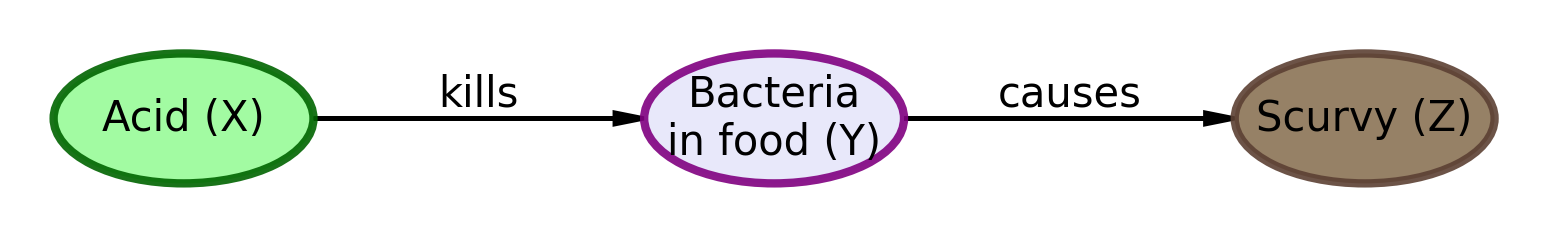
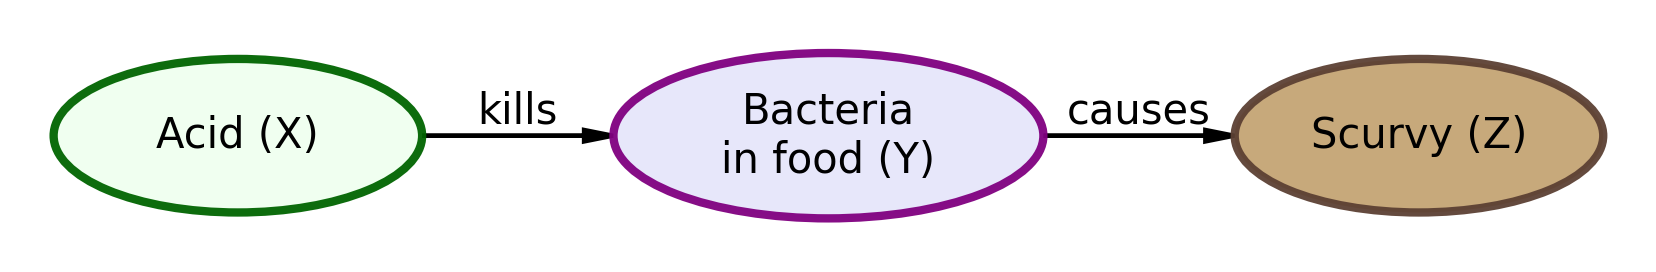
cleaned up all DAGS

Changed region(s): [[0.031, 0.1772, 0.9922, 0.827]]

diff --git a/index.html b/index.html
@@ -209,21 +209,21 @@ Ready to create beautiful DAGs!</code></pre>
 <span id="cb3-2"><a href="#cb3-2" aria-hidden="true" tabindex="-1"></a></span>
 <span id="cb3-3"><a href="#cb3-3" aria-hidden="true" tabindex="-1"></a>pgm <span class="op">=</span> daft.PGM(dpi<span class="op">=</span><span class="dv">150</span>, alternate_style<span class="op">=</span><span class="st">"outer"</span>)</span>
 <span id="cb3-4"><a href="#cb3-4" aria-hidden="true" tabindex="-1"></a></span>
-<span id="cb3-5"><a href="#cb3-5" aria-hidden="true" tabindex="-1"></a><span class="co"># Lemons node (yellow)</span></span>
-<span id="cb3-6"><a href="#cb3-6" aria-hidden="true" tabindex="-1"></a>pgm.add_node(<span class="st">"lemons"</span>, <span class="st">"Lemons (X)"</span>, <span class="dv">1</span>, <span class="dv">1</span>, aspect<span class="op">=</span><span class="dv">2</span>, scale<span class="op">=</span><span class="fl">1.1</span>,</span>
+<span id="cb3-5"><a href="#cb3-5" aria-hidden="true" tabindex="-1"></a><span class="co"># Lemons node (yellow - light fill for black text contrast)</span></span>
+<span id="cb3-6"><a href="#cb3-6" aria-hidden="true" tabindex="-1"></a>pgm.add_node(<span class="st">"lemons"</span>, <span class="st">"Lemons (X)"</span>, <span class="fl">0.5</span>, <span class="dv">1</span>, aspect<span class="op">=</span><span class="fl">2.4</span>, scale<span class="op">=</span><span class="fl">1.3</span>,</span>
 <span id="cb3-7"><a href="#cb3-7" aria-hidden="true" tabindex="-1"></a>             plot_params<span class="op">=</span>{</span>
-<span id="cb3-8"><a href="#cb3-8" aria-hidden="true" tabindex="-1"></a>                 <span class="st">'facecolor'</span>: <span class="st">'gold'</span>,</span>
+<span id="cb3-8"><a href="#cb3-8" aria-hidden="true" tabindex="-1"></a>                 <span class="st">'facecolor'</span>: <span class="st">'lemonchiffon'</span>,</span>
 <span id="cb3-9"><a href="#cb3-9" aria-hidden="true" tabindex="-1"></a>                 <span class="st">'edgecolor'</span>: <span class="st">'darkgoldenrod'</span>,</span>
 <span id="cb3-10"><a href="#cb3-10" aria-hidden="true" tabindex="-1"></a>                 <span class="st">'linewidth'</span>: <span class="dv">2</span>,</span>
-<span id="cb3-11"><a href="#cb3-11" aria-hidden="true" tabindex="-1"></a>                 <span class="st">'alpha'</span>: <span class="fl">0.9</span>,</span>
+<span id="cb3-11"><a href="#cb3-11" aria-hidden="true" tabindex="-1"></a>                 <span class="st">'alpha'</span>: <span class="fl">0.95</span>,</span>
 <span id="cb3-12"><a href="#cb3-12" aria-hidden="true" tabindex="-1"></a>             })</span>
-<span id="cb3-13"><a href="#cb3-13" aria-hidden="true" tabindex="-1"></a><span class="co"># Scurvy node (sickly/unpleasant color)</span></span>
-<span id="cb3-14"><a href="#cb3-14" aria-hidden="true" tabindex="-1"></a>pgm.add_node(<span class="st">"scurvy"</span>, <span class="st">"Scurvy (Y)"</span>, <span class="dv">3</span>, <span class="dv">1</span>, aspect<span class="op">=</span><span class="dv">2</span>, scale<span class="op">=</span><span class="fl">1.1</span>,</span>
+<span id="cb3-13"><a href="#cb3-13" aria-hidden="true" tabindex="-1"></a><span class="co"># Scurvy node (lightened tan so black text is readable)</span></span>
+<span id="cb3-14"><a href="#cb3-14" aria-hidden="true" tabindex="-1"></a>pgm.add_node(<span class="st">"scurvy"</span>, <span class="st">"Scurvy (Y)"</span>, <span class="fl">3.5</span>, <span class="dv">1</span>, aspect<span class="op">=</span><span class="fl">2.4</span>, scale<span class="op">=</span><span class="fl">1.3</span>,</span>
 <span id="cb3-15"><a href="#cb3-15" aria-hidden="true" tabindex="-1"></a>             plot_params<span class="op">=</span>{</span>
-<span id="cb3-16"><a href="#cb3-16" aria-hidden="true" tabindex="-1"></a>                 <span class="st">'facecolor'</span>: <span class="st">'#8B7355'</span>,</span>
+<span id="cb3-16"><a href="#cb3-16" aria-hidden="true" tabindex="-1"></a>                 <span class="st">'facecolor'</span>: <span class="st">'#C4A574'</span>,</span>
 <span id="cb3-17"><a href="#cb3-17" aria-hidden="true" tabindex="-1"></a>                 <span class="st">'edgecolor'</span>: <span class="st">'#5C4033'</span>,</span>
 <span id="cb3-18"><a href="#cb3-18" aria-hidden="true" tabindex="-1"></a>                 <span class="st">'linewidth'</span>: <span class="dv">2</span>,</span>
-<span id="cb3-19"><a href="#cb3-19" aria-hidden="true" tabindex="-1"></a>                 <span class="st">'alpha'</span>: <span class="fl">0.9</span>,</span>
+<span id="cb3-19"><a href="#cb3-19" aria-hidden="true" tabindex="-1"></a>                 <span class="st">'alpha'</span>: <span class="fl">0.95</span>,</span>
 <span id="cb3-20"><a href="#cb3-20" aria-hidden="true" tabindex="-1"></a>             })</span>
 <span id="cb3-21"><a href="#cb3-21" aria-hidden="true" tabindex="-1"></a>pgm.add_edge(<span class="st">"lemons"</span>, <span class="st">"scurvy"</span>, label<span class="op">=</span><span class="st">"prevents"</span>)</span>
 <span id="cb3-22"><a href="#cb3-22" aria-hidden="true" tabindex="-1"></a></span>
@@ -231,7 +231,7 @@ Ready to create beautiful DAGs!</code></pre>
 <div class="cell-output cell-output-display">
 <div>
 <figure class="figure">
-<p><img src="index_files/figure-html/dag-1-1747-output-1.png" id="dag-1-1747" width="419" height="118" class="figure-img"></p>
+<p><img src="index_files/figure-html/dag-1-1747-output-1.png" id="dag-1-1747" width="592" height="130" class="figure-img"></p>
 </figure>
 </div>
 </div>
@@ -247,29 +247,29 @@ Ready to create beautiful DAGs!</code></pre>
 <span id="cb4-2"><a href="#cb4-2" aria-hidden="true" tabindex="-1"></a></span>
 <span id="cb4-3"><a href="#cb4-3" aria-hidden="true" tabindex="-1"></a>pgm <span class="op">=</span> daft.PGM(dpi<span class="op">=</span><span class="dv">150</span>, alternate_style<span class="op">=</span><span class="st">"outer"</span>)</span>
 <span id="cb4-4"><a href="#cb4-4" aria-hidden="true" tabindex="-1"></a></span>
-<span id="cb4-5"><a href="#cb4-5" aria-hidden="true" tabindex="-1"></a><span class="co"># Acid node (green) - spaced left</span></span>
-<span id="cb4-6"><a href="#cb4-6" aria-hidden="true" tabindex="-1"></a>pgm.add_node(<span class="st">"acid"</span>, <span class="st">"Acid (X)"</span>, <span class="dv">0</span>, <span class="dv">1</span>, aspect<span class="op">=</span><span class="dv">2</span>, scale<span class="op">=</span><span class="fl">1.1</span>,</span>
+<span id="cb4-5"><a href="#cb4-5" aria-hidden="true" tabindex="-1"></a><span class="co"># Acid node (green - light fill for readability)</span></span>
+<span id="cb4-6"><a href="#cb4-6" aria-hidden="true" tabindex="-1"></a>pgm.add_node(<span class="st">"acid"</span>, <span class="st">"Acid (X)"</span>, <span class="dv">0</span>, <span class="dv">1</span>, aspect<span class="op">=</span><span class="fl">2.4</span>, scale<span class="op">=</span><span class="fl">1.3</span>,</span>
 <span id="cb4-7"><a href="#cb4-7" aria-hidden="true" tabindex="-1"></a>             plot_params<span class="op">=</span>{</span>
-<span id="cb4-8"><a href="#cb4-8" aria-hidden="true" tabindex="-1"></a>                 <span class="st">'facecolor'</span>: <span class="st">'palegreen'</span>,</span>
+<span id="cb4-8"><a href="#cb4-8" aria-hidden="true" tabindex="-1"></a>                 <span class="st">'facecolor'</span>: <span class="st">'honeydew'</span>,</span>
 <span id="cb4-9"><a href="#cb4-9" aria-hidden="true" tabindex="-1"></a>                 <span class="st">'edgecolor'</span>: <span class="st">'darkgreen'</span>,</span>
 <span id="cb4-10"><a href="#cb4-10" aria-hidden="true" tabindex="-1"></a>                 <span class="st">'linewidth'</span>: <span class="dv">2</span>,</span>
-<span id="cb4-11"><a href="#cb4-11" aria-hidden="true" tabindex="-1"></a>                 <span class="st">'alpha'</span>: <span class="fl">0.9</span>,</span>
+<span id="cb4-11"><a href="#cb4-11" aria-hidden="true" tabindex="-1"></a>                 <span class="st">'alpha'</span>: <span class="fl">0.95</span>,</span>
 <span id="cb4-12"><a href="#cb4-12" aria-hidden="true" tabindex="-1"></a>             })</span>
-<span id="cb4-13"><a href="#cb4-13" aria-hidden="true" tabindex="-1"></a><span class="co"># Bacteria in food node - center</span></span>
-<span id="cb4-14"><a href="#cb4-14" aria-hidden="true" tabindex="-1"></a>pgm.add_node(<span class="st">"bacteria"</span>, <span class="st">"Bacteria</span><span class="ch">\n</span><span class="st">in food (Y)"</span>, <span class="fl">2.5</span>, <span class="dv">1</span>, aspect<span class="op">=</span><span class="dv">2</span>, scale<span class="op">=</span><span class="fl">1.1</span>,</span>
+<span id="cb4-13"><a href="#cb4-13" aria-hidden="true" tabindex="-1"></a><span class="co"># Bacteria in food node (larger so two-line label fits)</span></span>
+<span id="cb4-14"><a href="#cb4-14" aria-hidden="true" tabindex="-1"></a>pgm.add_node(<span class="st">"bacteria"</span>, <span class="st">"Bacteria</span><span class="ch">\n</span><span class="st">in food (Y)"</span>, <span class="fl">2.5</span>, <span class="dv">1</span>, aspect<span class="op">=</span><span class="fl">2.6</span>, scale<span class="op">=</span><span class="fl">1.4</span>,</span>
 <span id="cb4-15"><a href="#cb4-15" aria-hidden="true" tabindex="-1"></a>             plot_params<span class="op">=</span>{</span>
 <span id="cb4-16"><a href="#cb4-16" aria-hidden="true" tabindex="-1"></a>                 <span class="st">'facecolor'</span>: <span class="st">'lavender'</span>,</span>
 <span id="cb4-17"><a href="#cb4-17" aria-hidden="true" tabindex="-1"></a>                 <span class="st">'edgecolor'</span>: <span class="st">'purple'</span>,</span>
 <span id="cb4-18"><a href="#cb4-18" aria-hidden="true" tabindex="-1"></a>                 <span class="st">'linewidth'</span>: <span class="dv">2</span>,</span>
-<span id="cb4-19"><a href="#cb4-19" aria-hidden="true" tabindex="-1"></a>                 <span class="st">'alpha'</span>: <span class="fl">0.9</span>,</span>
+<span id="cb4-19"><a href="#cb4-19" aria-hidden="true" tabindex="-1"></a>                 <span class="st">'alpha'</span>: <span class="fl">0.95</span>,</span>
 <span id="cb4-20"><a href="#cb4-20" aria-hidden="true" tabindex="-1"></a>             })</span>
-<span id="cb4-21"><a href="#cb4-21" aria-hidden="true" tabindex="-1"></a><span class="co"># Scurvy node (same as DAG 1) - spaced right</span></span>
-<span id="cb4-22"><a href="#cb4-22" aria-hidden="true" tabindex="-1"></a>pgm.add_node(<span class="st">"scurvy"</span>, <span class="st">"Scurvy (Z)"</span>, <span class="dv">5</span>, <span class="dv">1</span>, aspect<span class="op">=</span><span class="dv">2</span>, scale<span class="op">=</span><span class="fl">1.1</span>,</span>
+<span id="cb4-21"><a href="#cb4-21" aria-hidden="true" tabindex="-1"></a><span class="co"># Scurvy node (lightened tan for text contrast)</span></span>
+<span id="cb4-22"><a href="#cb4-22" aria-hidden="true" tabindex="-1"></a>pgm.add_node(<span class="st">"scurvy"</span>, <span class="st">"Scurvy (Z)"</span>, <span class="dv">5</span>, <span class="dv">1</span>, aspect<span class="op">=</span><span class="fl">2.4</span>, scale<span class="op">=</span><span class="fl">1.3</span>,</span>
 <span id="cb4-23"><a href="#cb4-23" aria-hidden="true" tabindex="-1"></a>             plot_params<span class="op">=</span>{</span>
-<span id="cb4-24"><a href="#cb4-24" aria-hidden="true" tabindex="-1"></a>                 <span class="st">'facecolor'</span>: <span class="st">'#8B7355'</span>,</span>
+<span id="cb4-24"><a href="#cb4-24" aria-hidden="true" tabindex="-1"></a>                 <span class="st">'facecolor'</span>: <span class="st">'#C4A574'</span>,</span>
 <span id="cb4-25"><a href="#cb4-25" aria-hidden="true" tabindex="-1"></a>                 <span class="st">'edgecolor'</span>: <span class="st">'#5C4033'</span>,</span>
 <span id="cb4-26"><a href="#cb4-26" aria-hidden="true" tabindex="-1"></a>                 <span class="st">'linewidth'</span>: <span class="dv">2</span>,</span>
-<span id="cb4-27"><a href="#cb4-27" aria-hidden="true" tabindex="-1"></a>                 <span class="st">'alpha'</span>: <span class="fl">0.9</span>,</span>
+<span id="cb4-27"><a href="#cb4-27" aria-hidden="true" tabindex="-1"></a>                 <span class="st">'alpha'</span>: <span class="fl">0.95</span>,</span>
 <span id="cb4-28"><a href="#cb4-28" aria-hidden="true" tabindex="-1"></a>             })</span>
 <span id="cb4-29"><a href="#cb4-29" aria-hidden="true" tabindex="-1"></a>pgm.add_edge(<span class="st">"acid"</span>, <span class="st">"bacteria"</span>, label<span class="op">=</span><span class="st">"kills"</span>)</span>
 <span id="cb4-30"><a href="#cb4-30" aria-hidden="true" tabindex="-1"></a>pgm.add_edge(<span class="st">"bacteria"</span>, <span class="st">"scurvy"</span>, label<span class="op">=</span><span class="st">"causes"</span>)</span>
@@ -278,7 +278,7 @@ Ready to create beautiful DAGs!</code></pre>
 <div class="cell-output cell-output-display">
 <div>
 <figure class="figure">
-<p><img src="index_files/figure-html/dag-2-misguided-output-1.png" id="dag-2-misguided" width="774" height="118" class="figure-img"></p>
+<p><img src="index_files/figure-html/dag-2-misguided-output-1.png" id="dag-2-misguided" width="828" height="136" class="figure-img"></p>
 </figure>
 </div>
 </div>
@@ -294,26 +294,26 @@ Ready to create beautiful DAGs!</code></pre>
 <span id="cb5-2"><a href="#cb5-2" aria-hidden="true" tabindex="-1"></a></span>
 <span id="cb5-3"><a href="#cb5-3" aria-hidden="true" tabindex="-1"></a>pgm <span class="op">=</span> daft.PGM(dpi<span class="op">=</span><span class="dv">150</span>, alternate_style<span class="op">=</span><span class="st">"outer"</span>)</span>
 <span id="cb5-4"><a href="#cb5-4" aria-hidden="true" tabindex="-1"></a></span>
-<span id="cb5-5"><a href="#cb5-5" aria-hidden="true" tabindex="-1"></a><span class="co"># Vitamin C node (appealing citrus/health color)</span></span>
-<span id="cb5-6"><a href="#cb5-6" aria-hidden="true" tabindex="-1"></a>pgm.add_node(<span class="st">"vitamin_c"</span>, <span class="st">"Vitamin C"</span>, <span class="dv">0</span>, <span class="dv">1</span>, aspect<span class="op">=</span><span class="fl">2.2</span>, scale<span class="op">=</span><span class="fl">1.2</span>,</span>
+<span id="cb5-5"><a href="#cb5-5" aria-hidden="true" tabindex="-1"></a><span class="co"># Vitamin C node (larger so label fits)</span></span>
+<span id="cb5-6"><a href="#cb5-6" aria-hidden="true" tabindex="-1"></a>pgm.add_node(<span class="st">"vitamin_c"</span>, <span class="st">"Vitamin C (X)"</span>, <span class="op">-</span><span class="fl">0.25</span>, <span class="dv">1</span>, aspect<span class="op">=</span><span class="fl">2.6</span>, scale<span class="op">=</span><span class="fl">1.4</span>,</span>
 <span id="cb5-7"><a href="#cb5-7" aria-hidden="true" tabindex="-1"></a>             plot_params<span class="op">=</span>{</span>
-<span id="cb5-8"><a href="#cb5-8" aria-hidden="true" tabindex="-1"></a>                 <span class="st">'facecolor'</span>: <span class="st">'#FFE4C4'</span>,</span>
+<span id="cb5-8"><a href="#cb5-8" aria-hidden="true" tabindex="-1"></a>                 <span class="st">'facecolor'</span>: <span class="st">'#FFEFD5'</span>,</span>
 <span id="cb5-9"><a href="#cb5-9" aria-hidden="true" tabindex="-1"></a>                 <span class="st">'edgecolor'</span>: <span class="st">'#D2691E'</span>,</span>
 <span id="cb5-10"><a href="#cb5-10" aria-hidden="true" tabindex="-1"></a>                 <span class="st">'linewidth'</span>: <span class="dv">2</span>,</span>
 <span id="cb5-11"><a href="#cb5-11" aria-hidden="true" tabindex="-1"></a>                 <span class="st">'alpha'</span>: <span class="fl">0.95</span>,</span>
 <span id="cb5-12"><a href="#cb5-12" aria-hidden="true" tabindex="-1"></a>             })</span>
-<span id="cb5-13"><a href="#cb5-13" aria-hidden="true" tabindex="-1"></a><span class="co"># Collagen synthesis node</span></span>
-<span id="cb5-14"><a href="#cb5-14" aria-hidden="true" tabindex="-1"></a>pgm.add_node(<span class="st">"collagen"</span>, <span class="st">"Collagen</span><span class="ch">\n</span><span class="st">synthesis"</span>, <span class="fl">2.5</span>, <span class="dv">1</span>, aspect<span class="op">=</span><span class="fl">2.2</span>, scale<span class="op">=</span><span class="fl">1.2</span>,</span>
+<span id="cb5-13"><a href="#cb5-13" aria-hidden="true" tabindex="-1"></a><span class="co"># Collagen synthesis node (larger for two-line label)</span></span>
+<span id="cb5-14"><a href="#cb5-14" aria-hidden="true" tabindex="-1"></a>pgm.add_node(<span class="st">"collagen"</span>, <span class="st">"Collagen</span><span class="ch">\n</span><span class="st">synthesis (Y)"</span>, <span class="fl">2.5</span>, <span class="dv">1</span>, aspect<span class="op">=</span><span class="fl">2.8</span>, scale<span class="op">=</span><span class="fl">1.45</span>,</span>
 <span id="cb5-15"><a href="#cb5-15" aria-hidden="true" tabindex="-1"></a>             plot_params<span class="op">=</span>{</span>
-<span id="cb5-16"><a href="#cb5-16" aria-hidden="true" tabindex="-1"></a>                 <span class="st">'facecolor'</span>: <span class="st">'#E0F7FA'</span>,</span>
+<span id="cb5-16"><a href="#cb5-16" aria-hidden="true" tabindex="-1"></a>                 <span class="st">'facecolor'</span>: <span class="st">'#E8F4F8'</span>,</span>
 <span id="cb5-17"><a href="#cb5-17" aria-hidden="true" tabindex="-1"></a>                 <span class="st">'edgecolor'</span>: <span class="st">'#00838F'</span>,</span>
 <span id="cb5-18"><a href="#cb5-18" aria-hidden="true" tabindex="-1"></a>                 <span class="st">'linewidth'</span>: <span class="dv">2</span>,</span>
 <span id="cb5-19"><a href="#cb5-19" aria-hidden="true" tabindex="-1"></a>                 <span class="st">'alpha'</span>: <span class="fl">0.95</span>,</span>
 <span id="cb5-20"><a href="#cb5-20" aria-hidden="true" tabindex="-1"></a>             })</span>
-<span id="cb5-21"><a href="#cb5-21" aria-hidden="true" tabindex="-1"></a><span class="co"># Scurvy node (same as DAG 1 and 2)</span></span>
-<span id="cb5-22"><a href="#cb5-22" aria-hidden="true" tabindex="-1"></a>pgm.add_node(<span class="st">"scurvy"</span>, <span class="st">"Scurvy"</span>, <span class="dv">5</span>, <span class="dv">1</span>, aspect<span class="op">=</span><span class="fl">2.2</span>, scale<span class="op">=</span><span class="fl">1.2</span>,</span>
+<span id="cb5-21"><a href="#cb5-21" aria-hidden="true" tabindex="-1"></a><span class="co"># Scurvy node (lightened tan for readability)</span></span>
+<span id="cb5-22"><a href="#cb5-22" aria-hidden="true" tabindex="-1"></a>pgm.add_node(<span class="st">"scurvy"</span>, <span class="st">"Scurvy (Z)"</span>, <span class="fl">5.25</span>, <span class="dv">1</span>, aspect<span class="op">=</span><span class="fl">2.6</span>, scale<span class="op">=</span><span class="fl">1.4</span>,</span>
 <span id="cb5-23"><a href="#cb5-23" aria-hidden="true" tabindex="-1"></a>             plot_params<span class="op">=</span>{</span>
-<span id="cb5-24"><a href="#cb5-24" aria-hidden="true" tabindex="-1"></a>                 <span class="st">'facecolor'</span>: <span class="st">'#8B7355'</span>,</span>
+<span id="cb5-24"><a href="#cb5-24" aria-hidden="true" tabindex="-1"></a>                 <span class="st">'facecolor'</span>: <span class="st">'#C4A574'</span>,</span>
 <span id="cb5-25"><a href="#cb5-25" aria-hidden="true" tabindex="-1"></a>                 <span class="st">'edgecolor'</span>: <span class="st">'#5C4033'</span>,</span>
 <span id="cb5-26"><a href="#cb5-26" aria-hidden="true" tabindex="-1"></a>                 <span class="st">'linewidth'</span>: <span class="dv">2</span>,</span>
 <span id="cb5-27"><a href="#cb5-27" aria-hidden="true" tabindex="-1"></a>                 <span class="st">'alpha'</span>: <span class="fl">0.95</span>,</span>
@@ -325,7 +325,7 @@ Ready to create beautiful DAGs!</code></pre>
 <div class="cell-output cell-output-display">
 <div>
 <figure class="figure">
-<p><img src="index_files/figure-html/dag-3-1928-output-1.png" id="dag-3-1928" width="800" height="124" class="figure-img"></p>
+<p><img src="index_files/figure-html/dag-3-1928-output-1.png" id="dag-3-1928" width="918" height="139" class="figure-img"></p>
 </figure>
 </div>
 </div>
